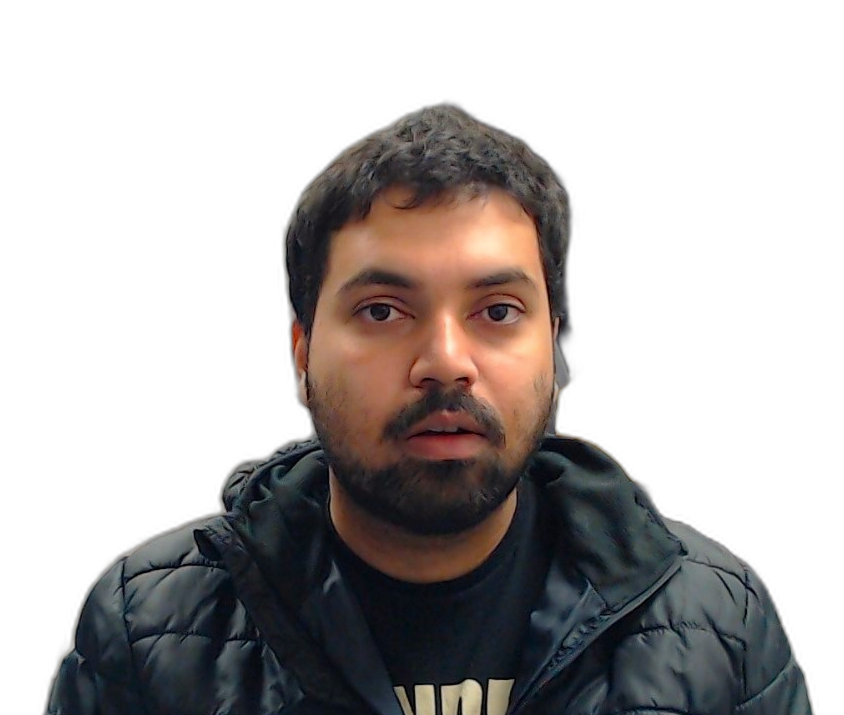
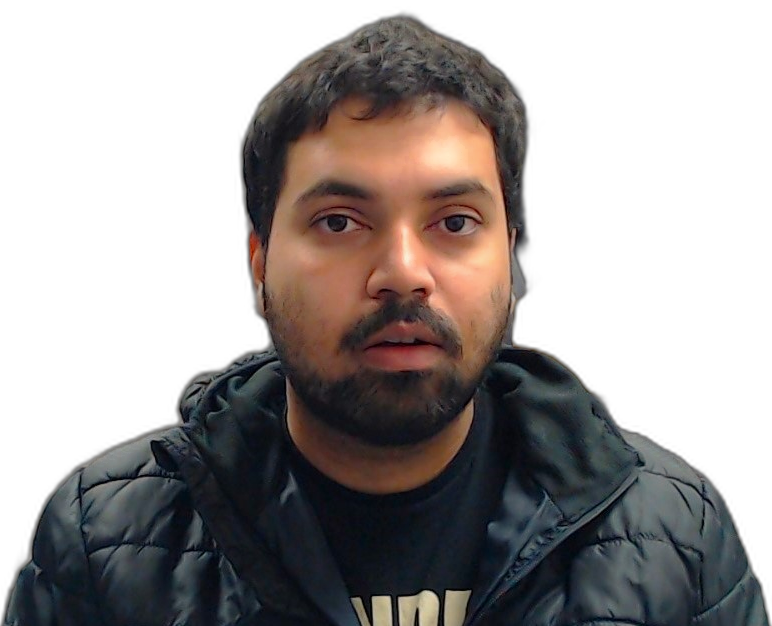
added contest in home page

diff --git a/index.html b/index.html
@@ -2,36 +2,36 @@
 <html lang="en">
 
 <head>
-  <meta charset="utf-8">
-  <meta content="width=device-width, initial-scale=1.0" name="viewport">
+    <meta charset="utf-8">
+    <meta content="width=device-width, initial-scale=1.0" name="viewport">
 
-  <title>Sahidul Islam Personal Website</title>
-  <meta content="" name="description">
-  <meta content="" name="keywords">
+    <title>Sahidul Islam</title>
+    <meta content="" name="description">
+    <meta content="" name="keywords">
 
-  <!-- Favicons -->
-  <link href="assets/img/favicon.png" rel="icon">
-  <link href="assets/img/apple-touch-icon.png" rel="apple-touch-icon">
+    <!-- Favicons
+    <link href="assets/img/favicon.png" rel="icon">
+    <link href="assets/img/apple-touch-icon.png" rel="apple-touch-icon">
+        -->
+    <!-- Google Fonts -->
+    <link href="https://fonts.googleapis.com/css?family=Open+Sans:300,300i,400,400i,600,600i,700,700i|Raleway:300,300i,400,400i,500,500i,600,600i,700,700i|Poppins:300,300i,400,400i,500,500i,600,600i,700,700i" rel="stylesheet">
 
-  <!-- Google Fonts -->
-  <link href="https://fonts.googleapis.com/css?family=Open+Sans:300,300i,400,400i,600,600i,700,700i|Raleway:300,300i,400,400i,500,500i,600,600i,700,700i|Poppins:300,300i,400,400i,500,500i,600,600i,700,700i" rel="stylesheet">
+    <!-- Vendor CSS Files -->
+    <link href="assets/vendor/bootstrap/css/bootstrap.min.css" rel="stylesheet">
+    <link href="assets/vendor/bootstrap-icons/bootstrap-icons.css" rel="stylesheet">
+    <link href="assets/vendor/boxicons/css/boxicons.min.css" rel="stylesheet">
+    <link href="assets/vendor/glightbox/css/glightbox.min.css" rel="stylesheet">
+    <link href="assets/vendor/swiper/swiper-bundle.min.css" rel="stylesheet">
 
-  <!-- Vendor CSS Files -->
-  <link href="assets/vendor/bootstrap/css/bootstrap.min.css" rel="stylesheet">
-  <link href="assets/vendor/bootstrap-icons/bootstrap-icons.css" rel="stylesheet">
-  <link href="assets/vendor/boxicons/css/boxicons.min.css" rel="stylesheet">
-  <link href="assets/vendor/glightbox/css/glightbox.min.css" rel="stylesheet">
-  <link href="assets/vendor/swiper/swiper-bundle.min.css" rel="stylesheet">
+    <!-- Template Main CSS File -->
+    <link href="assets/css/style.css" rel="stylesheet">
 
-  <!-- Template Main CSS File -->
-  <link href="assets/css/style.css" rel="stylesheet">
-
-  <!-- =======================================================
-  * Template Name: Lumia - v4.10.0
-  * Template URL: https://bootstrapmade.com/lumia-bootstrap-business-template/
-  * Author: BootstrapMade.com
-  * License: https://bootstrapmade.com/license/
-  ======================================================== -->
+    <!-- =======================================================
+    * Template Name: Lumia - v4.10.0
+    * Template URL: https://bootstrapmade.com/lumia-bootstrap-business-template/
+    * Author: BootstrapMade.com
+    * License: https://bootstrapmade.com/license/
+    ======================================================== -->
 </head>
 
 <body>
@@ -89,25 +89,231 @@
       <div class="container">
 
         <div class="row">
-            <div class="col-lg-4">
-                <img src="assets/img/professional_pic2.png" class="img-fluid" style='height: 80%; object-fit: cover;  object-position: center 40%;' alt="zoom">
+            <div class="col-lg-3">
+                <img src="assets/img/professional_pic2.png" class="img-fluid" style=' object-fit: cover;  object-position: center 40%;' alt="zoom">
 
-                <div class="header-social-links d-flex align-items-center">
+                <div class="header-social-links d-flex align-items-center" style="margin: 10px 0;">
                     <a href="#" class="twitter"><i class="bi bi-twitter"></i></a>
                     <a href="#" class="facebook"><i class="bi bi-facebook"></i></a>
                     <a href="#" class="instagram"><i class="bi bi-instagram"></i></a>
                     <a href="#" class="linkedin"><i class="bi bi-linkedin"></i></i></a>
                 </div>
+
+                <div>
+                    <b>Resume: </b> <a href=""> Sahidul Islam </a>
+                </div>
+                <div>
+                    PhD. Candidate @ UTSA
+                </div>
+                <div>
+                    <b>Email:</b> Sahidul dot Islam at UTSA dot edu
+                </div>
+
+                <div style="margin: 20px 0;">
+                    <h4> Interest </h4>
+                    <i> Music, Nature, Explore </i>
+                </div>
+
+            </div>
+            <div class="col-lg-1 pt-4 pt-lg-0">
             </div>
             <div class="col-lg-8 pt-4 pt-lg-0">
-                <h2>Biography</h2>
+                <h2 style="margin-bottom: 10px;">Biography</h2>
 
-                I am currently a Ph.D. Candidate in Department of Computer Science at The University of Texas at San Antonio, USA advised by Dr. Mimi Xie. I obtained my B.S. degree in Computer Science & Engineering from Khulna University Of Engineering and Technolog(KUET), Bangladesh.
+                I am currently a Ph.D. Candidate in <a href="#">Department of Computer Science </a> at <a href="#"> The University of Texas at San Antonio, USA</a> advised by <a href="#">Dr. Mimi Xie </a>. I obtained my B.S. degree in Computer Science & Engineering from <a href="#"> Khulna University Of Engineering and Technolog(KUET) </a>, Bangladesh.
+
+                I have demonstrated history of working in the several computer software industry. I was skilled full-stack software developer with experience working in both front and back-end using several programming languages.
+                <br>
                 My research interest includes edge computing, intelligent intermittent systems, Deep Neural Network (DNN) pruning, system level performance modeling and software/hardware co-design.
-                I am looking for full-time researcher position in Academia or Industry. Here is my updated resume.
-                Works at ASIC LAB as a Graduate Research Assistant.
-                Office: NPB, Room 2.248, UTSA, TX 78249.
-                Email: sahidul[dot]islam[at]utsa[dot]edu.
+
+                Our research has been published at prestigious top tier conferences such as  <b>ICCAD </b>, <b>DATE </b>.
+                Besides, our team won first place in accuracy and fourth place overall at the 2022 ACM/IEEE <a href="https://tinymlcontest.github.io/TinyML-Design-Contest/Winners.html">TinyML Design Contest</a> at ICCAD, among 150 teams from 10+countries.
+
+                <br>
+
+                <span style="color: red;">I am looking for full-time researcher position in Academia or Industry. Here is my updated <a href="#"> resume</a></span>.
+
+                <br>
+                <h2>News</h2>
+
+                <div class="row">
+                    <div class="col-lg-3 pt-4 pt-lg-0">
+                        January, 2023
+                    </div>
+                    <div class="col-lg-9 pt-4 pt-lg-0">
+                        Successfully defended dissertation proposal and became a PhD Candidate.
+                    </div>
+                </div>
+
+                <div class="row">
+                    <div class="col-lg-3 pt-4 pt-lg-0">
+                        October, 2022
+                    </div>
+                    <div class="col-lg-9 pt-4 pt-lg-0">
+                        Our collaborative team HuskyCSDeepical is the Top-4 Team in the ACM/IEEE <a href="https://tinymlcontest.github.io/TinyML-Design-Contest/Winners.html">TinyML Contest</a> at ICCAD 2022 among 150 teams around the world!  Big Congratulations to the Team!
+                    </div>
+                </div>
+
+                <div class="row">
+                    <div class="col-lg-3 pt-4 pt-lg-0">
+                        October, 2022
+                    </div>
+                    <div class="col-lg-9 pt-4 pt-lg-0">
+                        Attended and presented our paper at ICCAD 2022.
+                    </div>
+                </div>
+
+                <div class="row">
+                    <div class="col-lg-3 pt-4 pt-lg-0">
+                        September, 2022
+                    </div>
+                    <div class="col-lg-9 pt-4 pt-lg-0">
+                        Received the Graduate School Professional Development Award.
+                    </div>
+                </div>
+
+                <div class="row">
+                    <div class="col-lg-3 pt-4 pt-lg-0">
+                        August, 2022
+                    </div>
+                    <div class="col-lg-9 pt-4 pt-lg-0">
+                        Received ICCAD 2022 Student Travel Grant Award.
+
+                    </div>
+                </div>
+
+                <div class="row">
+                    <div class="col-lg-3 pt-4 pt-lg-0">
+                        July, 2022
+                    </div>
+                    <div class="col-lg-9 pt-4 pt-lg-0">
+
+                        One paper is accepted by ICCAD 2022 (CS ranking).
+
+                    </div>
+                </div>
+
+                <div class="row">
+                    <div class="col-lg-3 pt-4 pt-lg-0">
+                        June, 2022
+                    </div>
+                    <div class="col-lg-9 pt-4 pt-lg-0">
+
+                        Selected for DAC Young Student Fellow Award.
+
+                    </div>
+                </div>
+
+                <div class="row">
+                    <div class="col-lg-3 pt-4 pt-lg-0">
+                        April, 2022
+                    </div>
+                    <div class="col-lg-9 pt-4 pt-lg-0">
+
+                        Our research is invited for WIP poster presentation in DAC 2022.
+
+                    </div>
+                </div>
+
+                <div class="row">
+                    <div class="col-lg-3 pt-4 pt-lg-0">
+                        March, 2022
+                    </div>
+                    <div class="col-lg-9 pt-4 pt-lg-0">
+
+                        Attended and presented our paper at DATE 2022
+
+                    </div>
+                </div>
+
+                <div class="row">
+                    <div class="col-lg-3 pt-4 pt-lg-0">
+                        January, 2022
+                    </div>
+                    <div class="col-lg-9 pt-4 pt-lg-0">
+
+                        One collaborative paper is accepted by ISQED 2022.
+
+                    </div>
+                </div>
+
+                <div class="row">
+                    <div class="col-lg-3 pt-4 pt-lg-0">
+                        December, 2021
+                    </div>
+                    <div class="col-lg-9 pt-4 pt-lg-0">
+
+                        Received the Graduate School Professional Development Award.
+
+                    </div>
+                </div>
+
+                <div class="row">
+                    <div class="col-lg-3 pt-4 pt-lg-0">
+                        November, 2021
+                    </div>
+                    <div class="col-lg-9 pt-4 pt-lg-0">
+
+                        One paper is accepted by DATE 2022.
+
+                    </div>
+                </div>
+
+                <div class="row">
+                    <div class="col-lg-3 pt-4 pt-lg-0">
+                        August, 2021
+                    </div>
+                    <div class="col-lg-9 pt-4 pt-lg-0">
+
+                        Two collaborative papers are accepted by the ASAP 2021.
+
+                    </div>
+                </div>
+
+                <div class="row">
+                    <div class="col-lg-3 pt-4 pt-lg-0">
+                        July, 2021
+                    </div>
+                    <div class="col-lg-9 pt-4 pt-lg-0">
+
+                        Received Richard A. Newton Young Student Fellow Award.
+
+                    </div>
+                </div>
+
+                <div class="row">
+                    <div class="col-lg-3 pt-4 pt-lg-0">
+                        August, 2020
+                    </div>
+                    <div class="col-lg-9 pt-4 pt-lg-0">
+
+                        Started working as a Graduate Reseaerch Assistant at ASIC LAB.
+
+                    </div>
+                </div>
+
+                <div class="row">
+                    <div class="col-lg-3 pt-4 pt-lg-0">
+                        December, 2019
+                    </div>
+                    <div class="col-lg-9 pt-4 pt-lg-0">
+
+                        Successfully Passed Phd qualifying exam at UTSA Computer Science.
+
+                    </div>
+                </div>
+
+                <div class="row">
+                    <div class="col-lg-3 pt-4 pt-lg-0">
+                        August, 2019
+                    </div>
+                    <div class="col-lg-9 pt-4 pt-lg-0">
+
+                        Joined Department of Computer Science at UTSA.
+                    </div>
+                </div>
+
+
 
             </div>
         </div>

diff --git a/assets/css/style.css b/assets/css/style.css
@@ -23,13 +23,24 @@ a:hover {
   text-decoration: none;
 }
 
+br {
+    display: block; /* makes it have a width */
+    content: ""; /* clears default height */
+    margin-top: 13px; /* change this to whatever height you want it */
+}
+
+
+.row {
+    margin-bottom: 5px;
+}
+
 h1,
 h2,
 h3,
 h4,
 h5,
 h6 {
-  font-family: "Raleway", sans-serif;
+    font-family: "Raleway", sans-serif;
 }
 
 /*--------------------------------------------------------------
